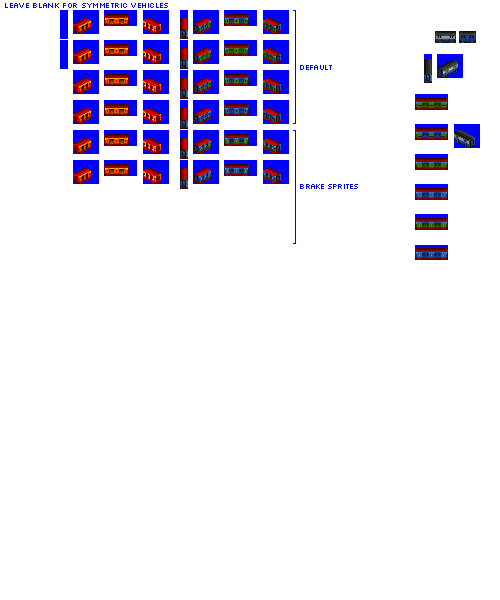
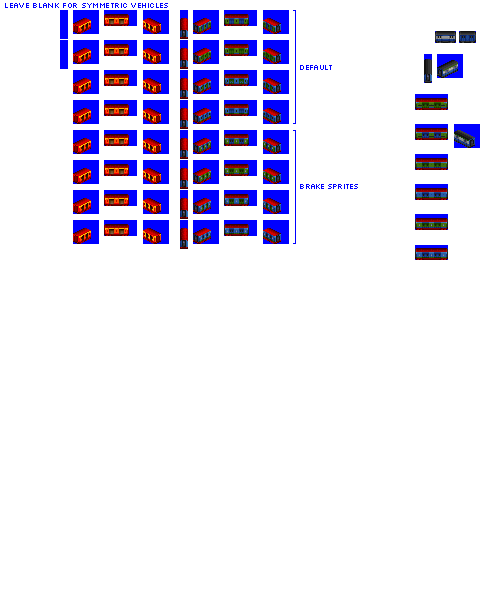
Change: additional mail van / railcar liveries complete

Changed region(s): [[0.12, 0.27, 0.6, 0.42], [0.45, 0.12, 0.54, 0.15], [0.39, 0.12, 0.42, 0.15]]

diff --git a/src/vehicles/mail_cars.py b/src/vehicles/mail_cars.py
@@ -177,7 +177,7 @@ def main():
         base_numeric_id=9910,
         gen=6,
         subtype="A",
-        sprites_complete=False,
+        sprites_complete=True,
     )
 
     consist.add_unit(type=ExpressMailCar, chassis="2_axle_solid_express_16px")
@@ -187,7 +187,7 @@ def main():
         base_numeric_id=10990,
         gen=6,
         subtype="B",
-        sprites_complete=False,
+        sprites_complete=True,
     )
 
     consist.add_unit(type=ExpressMailCar, chassis="4_axle_solid_express_24px")
@@ -197,7 +197,7 @@ def main():
         base_numeric_id=9050,
         gen=6,
         subtype="C",
-        sprites_complete=False,
+        sprites_complete=True,
     )
 
     consist.add_unit(type=ExpressMailCar, chassis="4_axle_solid_express_32px")

diff --git a/src/vehicles/ares.py b/src/vehicles/ares.py
@@ -16,7 +16,7 @@ def main(roster_id):
         easter_egg_haulage_speed_bonus=True,
         # use_3_unit_sets=True, # Ares only 2 unit sets, varies from other Pony mail railcars
         gen=3,
-        sprites_complete=False,
+        sprites_complete=True,
         intro_year_offset=-3,
     )  # introduce early by design
 

diff --git a/src/vehicles/pylon.py b/src/vehicles/pylon.py
@@ -14,7 +14,7 @@ def main(roster_id):
         easter_egg_haulage_speed_bonus=True,
         use_3_unit_sets=True,
         gen=6,
-        sprites_complete=False,
+        sprites_complete=True,
         intro_year_offset=-3,
     )  # introduce early by design
 

diff --git a/src/vehicles/gowsty.py b/src/vehicles/gowsty.py
@@ -13,7 +13,7 @@ def main(roster_id):
             "DIESEL": 280,
         },
         gen=3,
-        sprites_complete=False,
+        sprites_complete=True,
         intro_year_offset=-5,
     )  # introduce early by design
 
